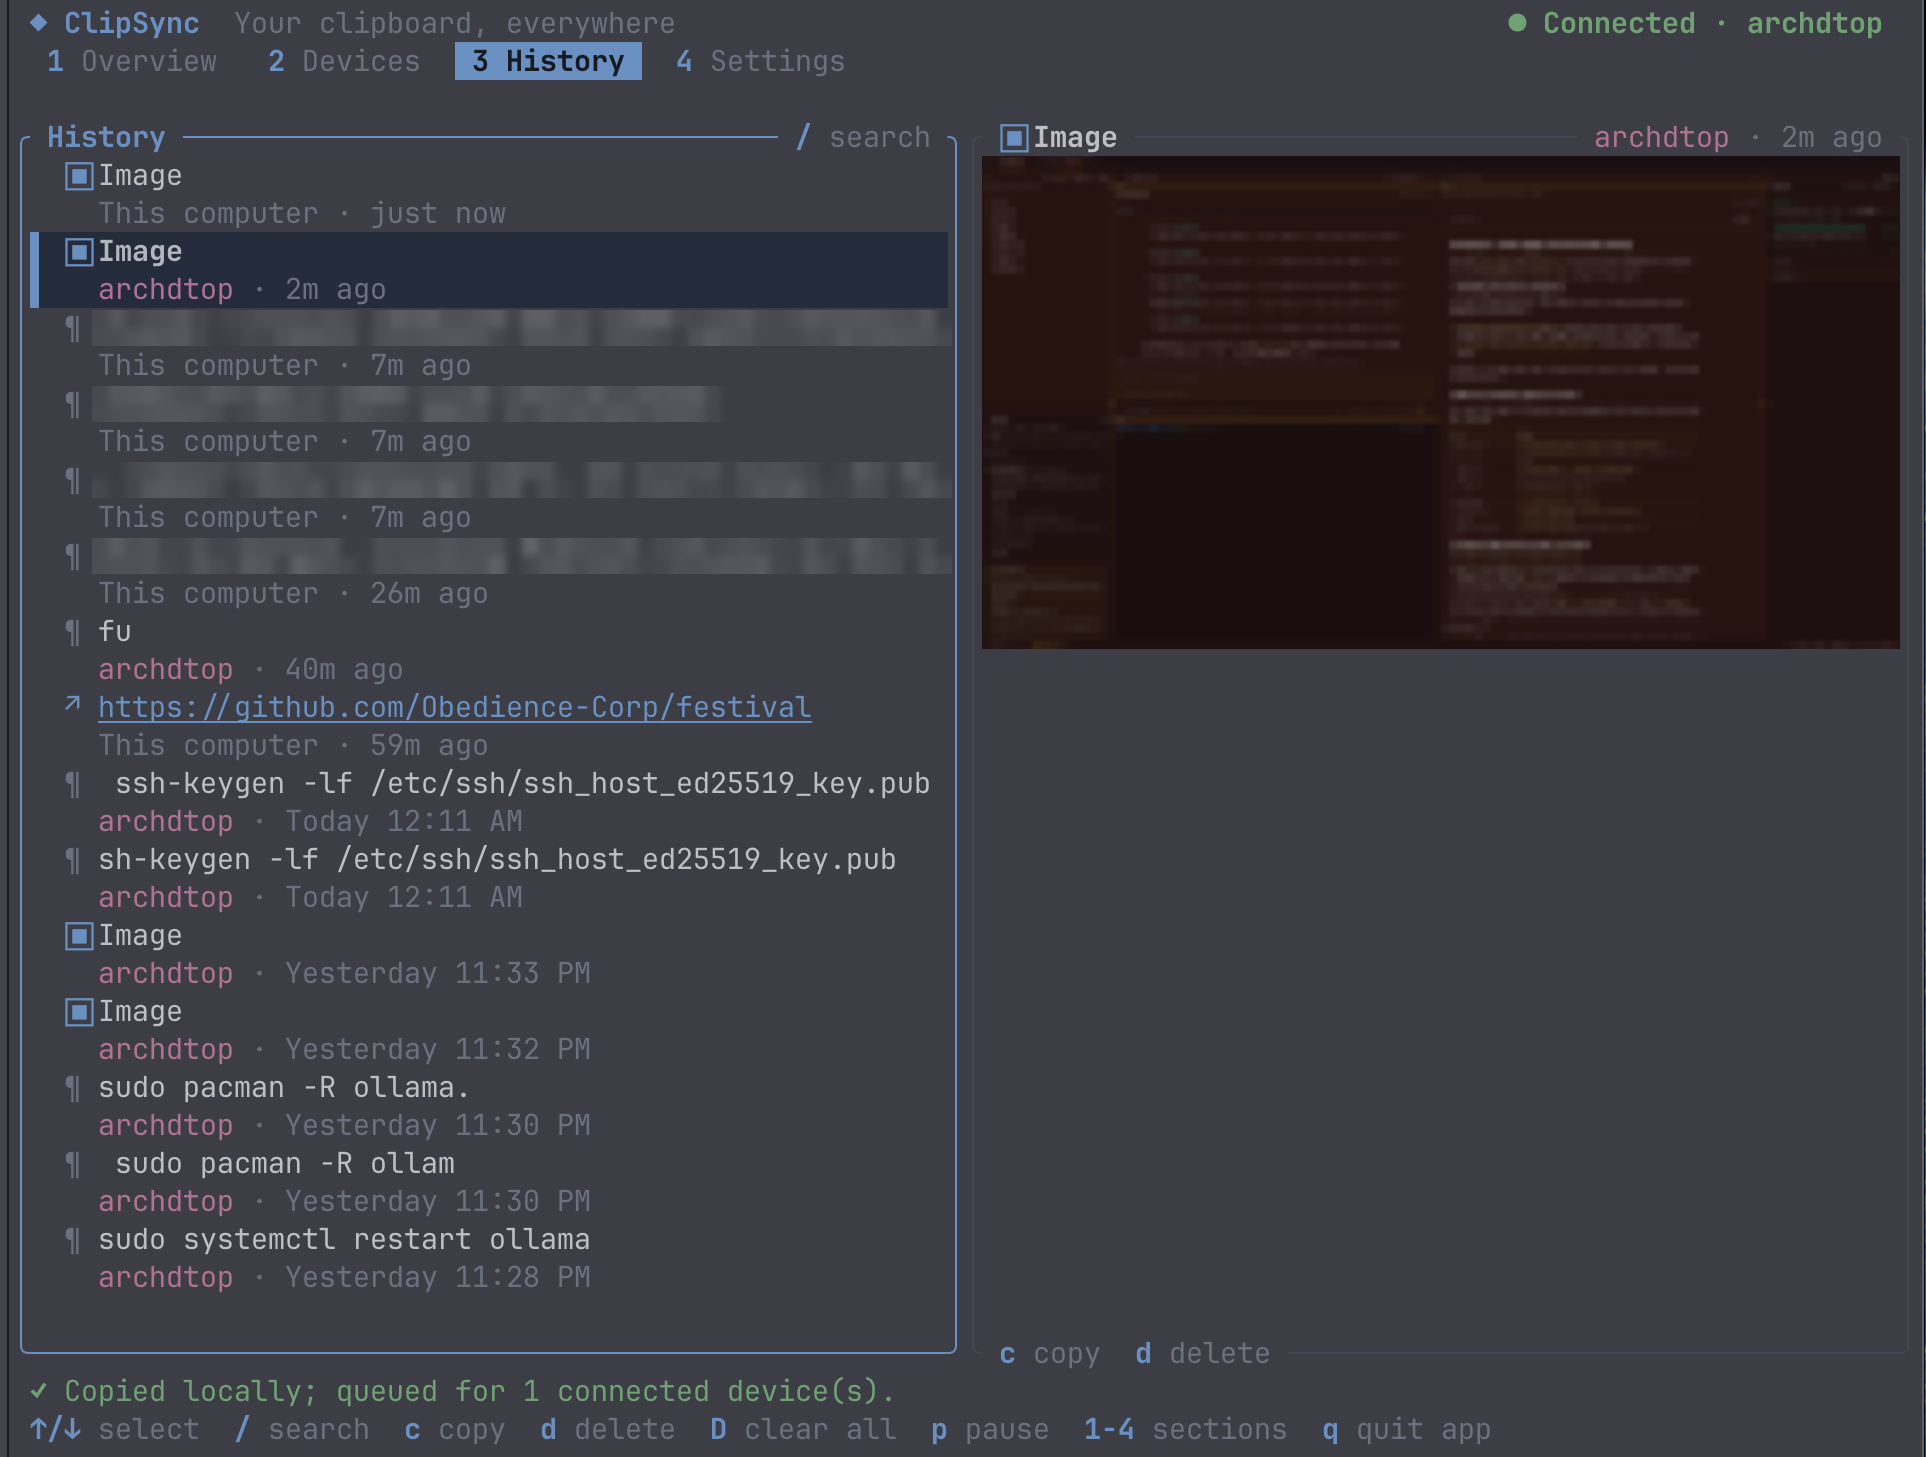
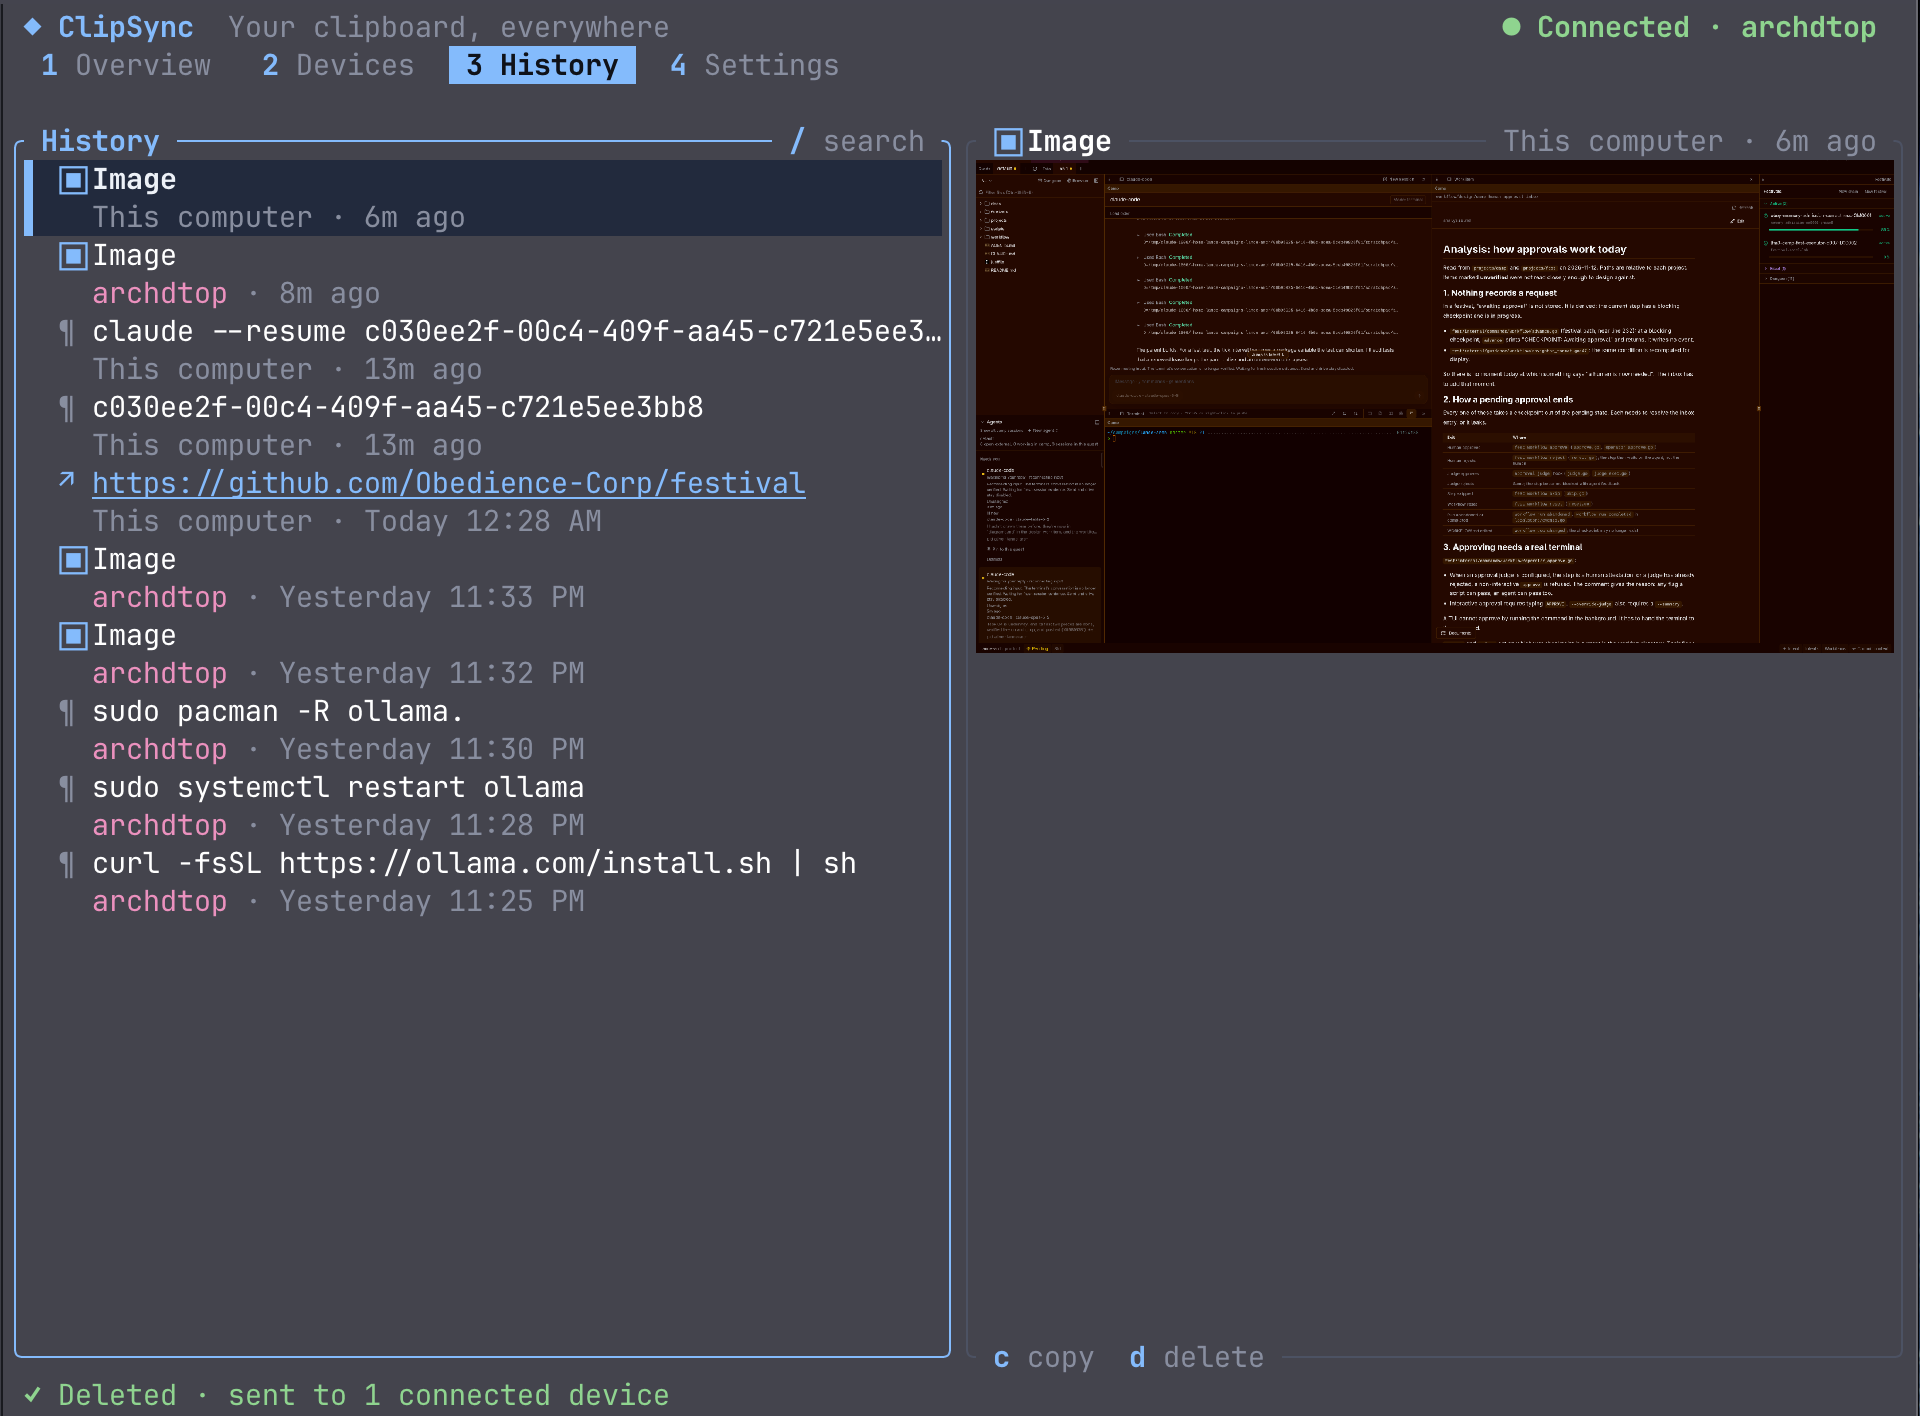
[mytools:8a57dff6] Use an unedited History screenshot with nothing to blur

diff --git a/README.md b/README.md
@@ -131,10 +131,10 @@ Kitty or Sixel graphics get a sharper preview; set `CLIPSYNC_TUI_GRAPHICS=off`
 to keep the character preview where a terminal reports graphics it cannot show.
 
 <p align="center">
-  <img src="docs/assets/companion-tui-history-mac-arch.png" width="960" alt="ClipSync terminal companion History on a Mac connected to an Arch Linux desktop named archdtop: images, text, a link and shell commands copied on either computer, with a sharp preview of a screenshot copied on archdtop">
+  <img src="docs/assets/companion-tui-history-mac-arch.png" width="960" alt="ClipSync terminal companion History on a Mac connected to an Arch Linux desktop named archdtop: images, a link and shell commands copied on either computer, with a sharp preview of the selected screenshot">
 </p>
 
-*Real use: History on a Mac connected to an Arch Linux desktop (`archdtop`), in a terminal with graphics support. Private entries are blurred.*
+*Real use: History on a Mac connected to an Arch Linux desktop (`archdtop`), in a terminal with graphics support.*
 
 <p align="center">
   <img src="docs/assets/companion-tui.gif" width="960" alt="ClipSync terminal companion: Overview with a connected device, Devices, History with an image preview, copying a line from another device, search, and pause">
